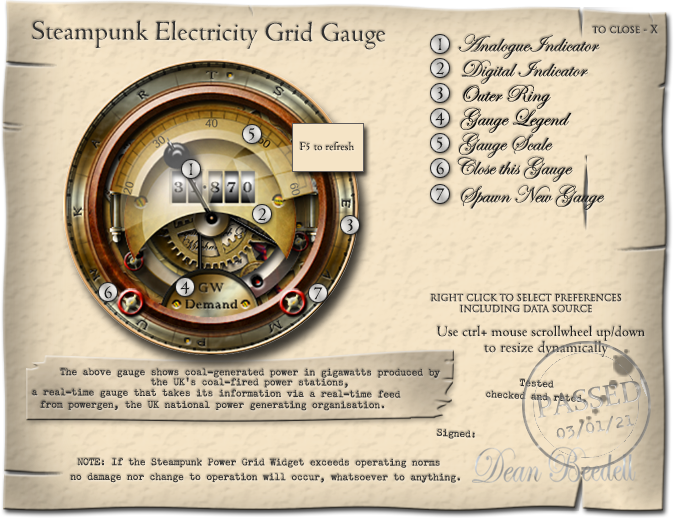
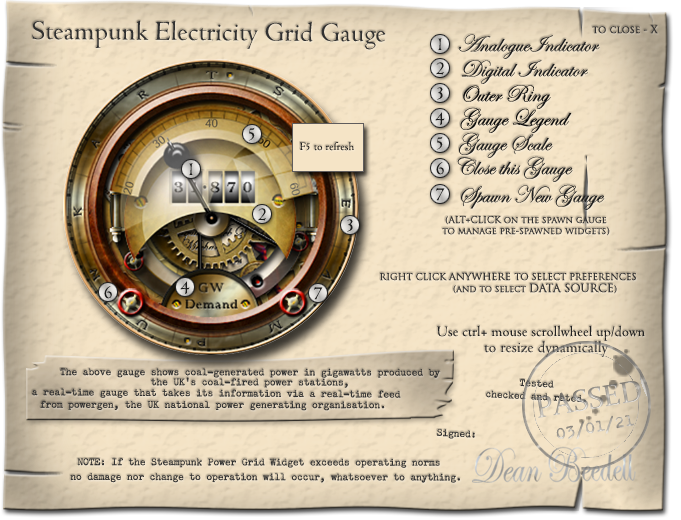
image and spawning controls moved

Changed region(s): [[0.5551, 0.5231, 0.9559, 0.6154], [0.6476, 0.4, 0.8943, 0.4615]]

diff --git a/Contents/Resources/Scripts/script.js b/Contents/Resources/Scripts/script.js
@@ -151,14 +151,8 @@ function scaleWidget(scale) {
     scTxt(text2, 152, 155, 26, 11, 0, 82, 11);
     scTxt(text1, 152, 155, 26, 11, 0, 81, 11);
 
-    if (preferences.noRingPref.value === "1") {
-        sc(closeButton, 70, 230);
-        sc(spawnButton, 200, 230);
-    } else {
-        sc(closeButton, 8, 250);
-        sc(spawnButton, 270, 250);
-    }
-
+    sc(closeButton, 70, 230);
+    sc(spawnButton, 200, 230);
 
 }
 
